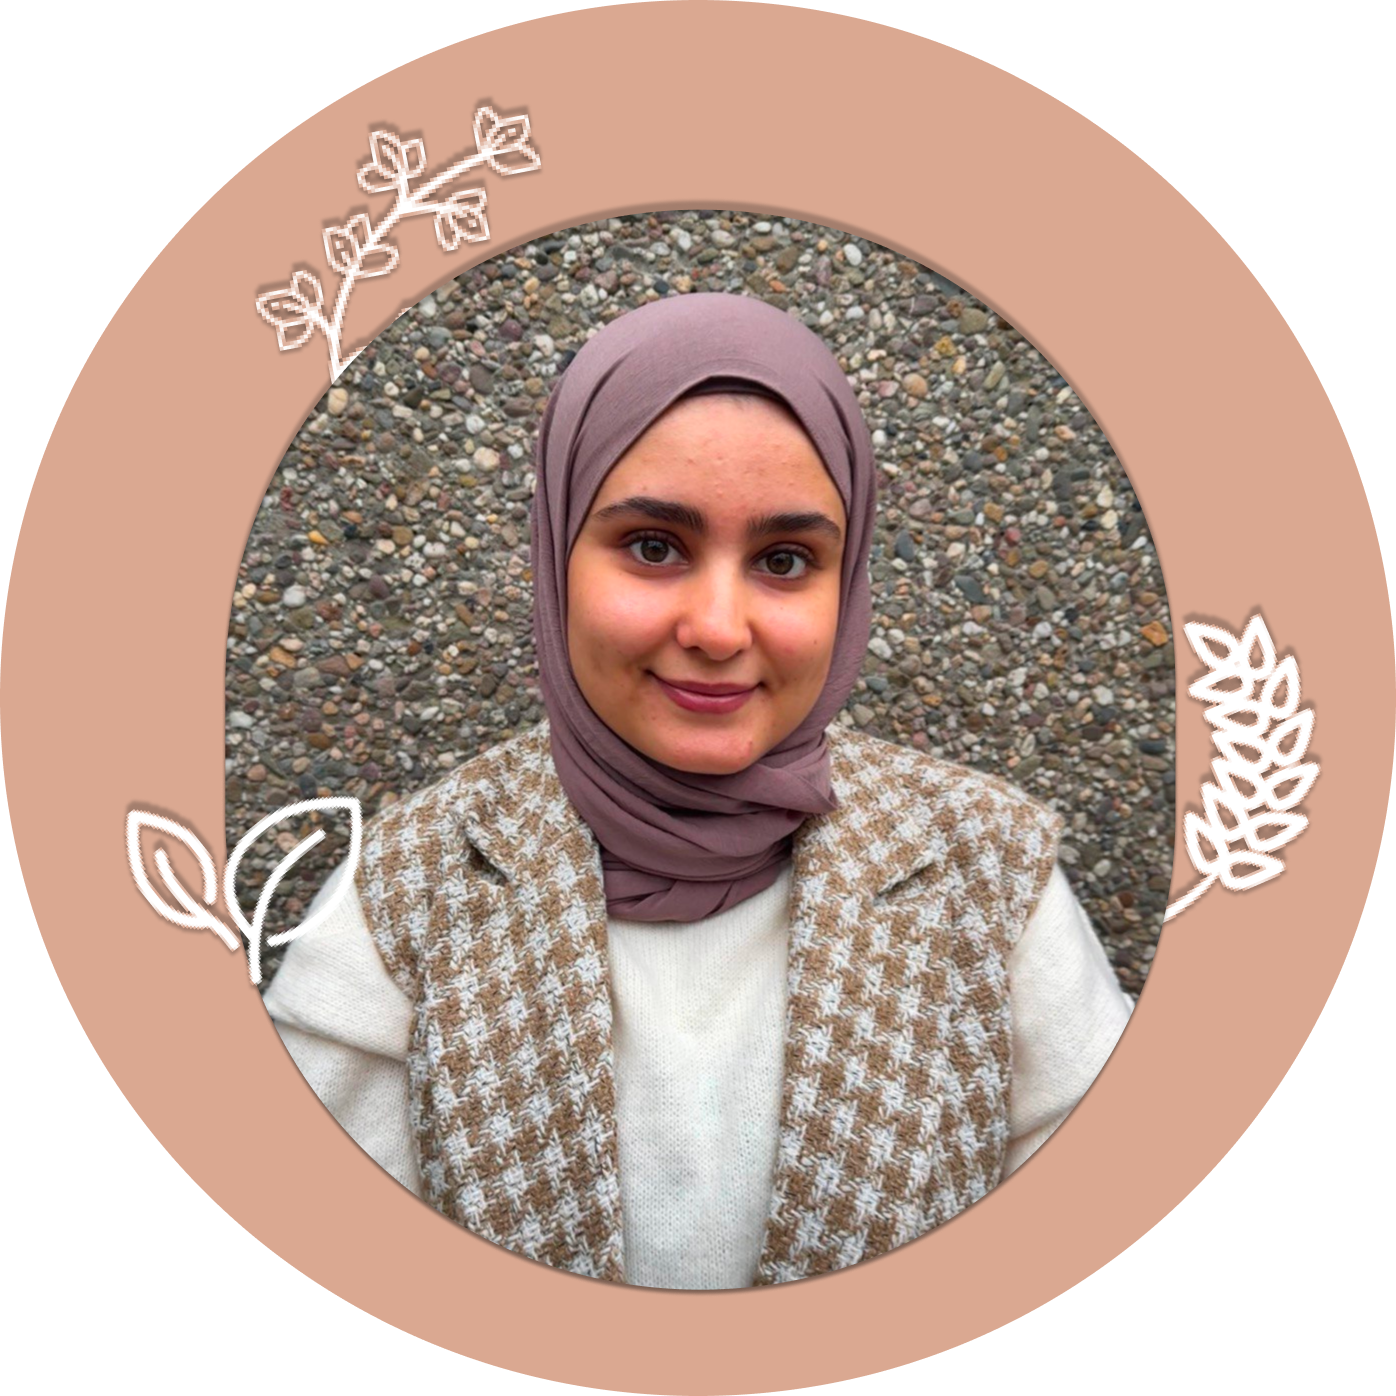
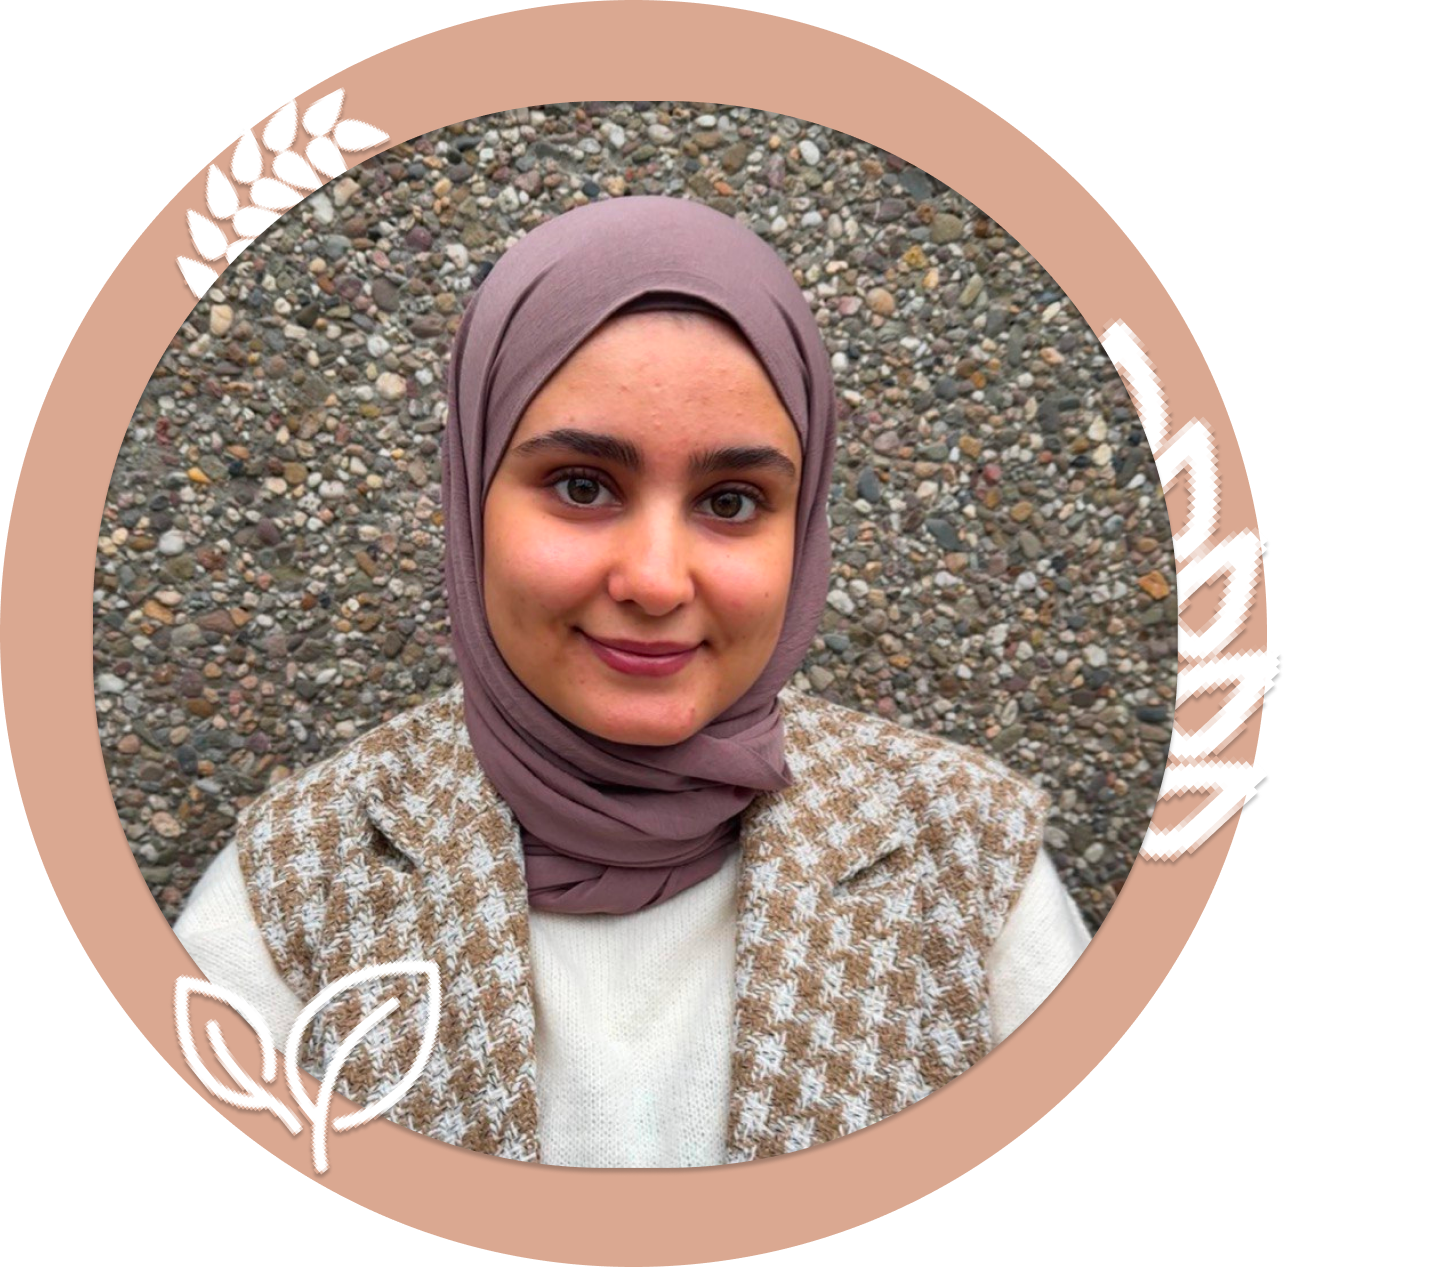
2025

diff --git a/style.css b/style.css
@@ -107,8 +107,8 @@ header nav ul{
 
 }
 header nav ul li{
-    width: 4em;
-    height: 4em;
+    width: 3.5em;
+    height: 3.5em;
     background-color: rgb(190, 129, 129);
     border-radius: 50%;
     /* align-self: center; */
@@ -127,8 +127,8 @@ align-items: center;
     border-radius: 50%;
 } */
 .index-Nav svg{
-    width: 3em;
-    height: 3em;
+    width: 2.6em;
+    height: 2.6em;
     color: aliceblue;
 
 }
@@ -168,6 +168,8 @@ main section:first-of-type img{
     height:auto;
     order: -1;
     align-self: center;
+    position: relative;
+    left: 3em;
 
     /* margin-top: 3em; */
 

diff --git a/index.html b/index.html
@@ -42,7 +42,7 @@
     <section>
         <h1>Hallo there! ik ben <span>Aya Barni</span></h1>
         <p>Een tweedejaarsstudent Communicatie en Multimedia Design met een passie voor creativiteit en technologie. Welkom op mijn portfolio!</p>
-        <img src="./images/aya.pic4.png" alt="aya profile foto">
+        <img src="./images/aya-pic2.png" alt="aya profile foto">
     </section>
 
 
